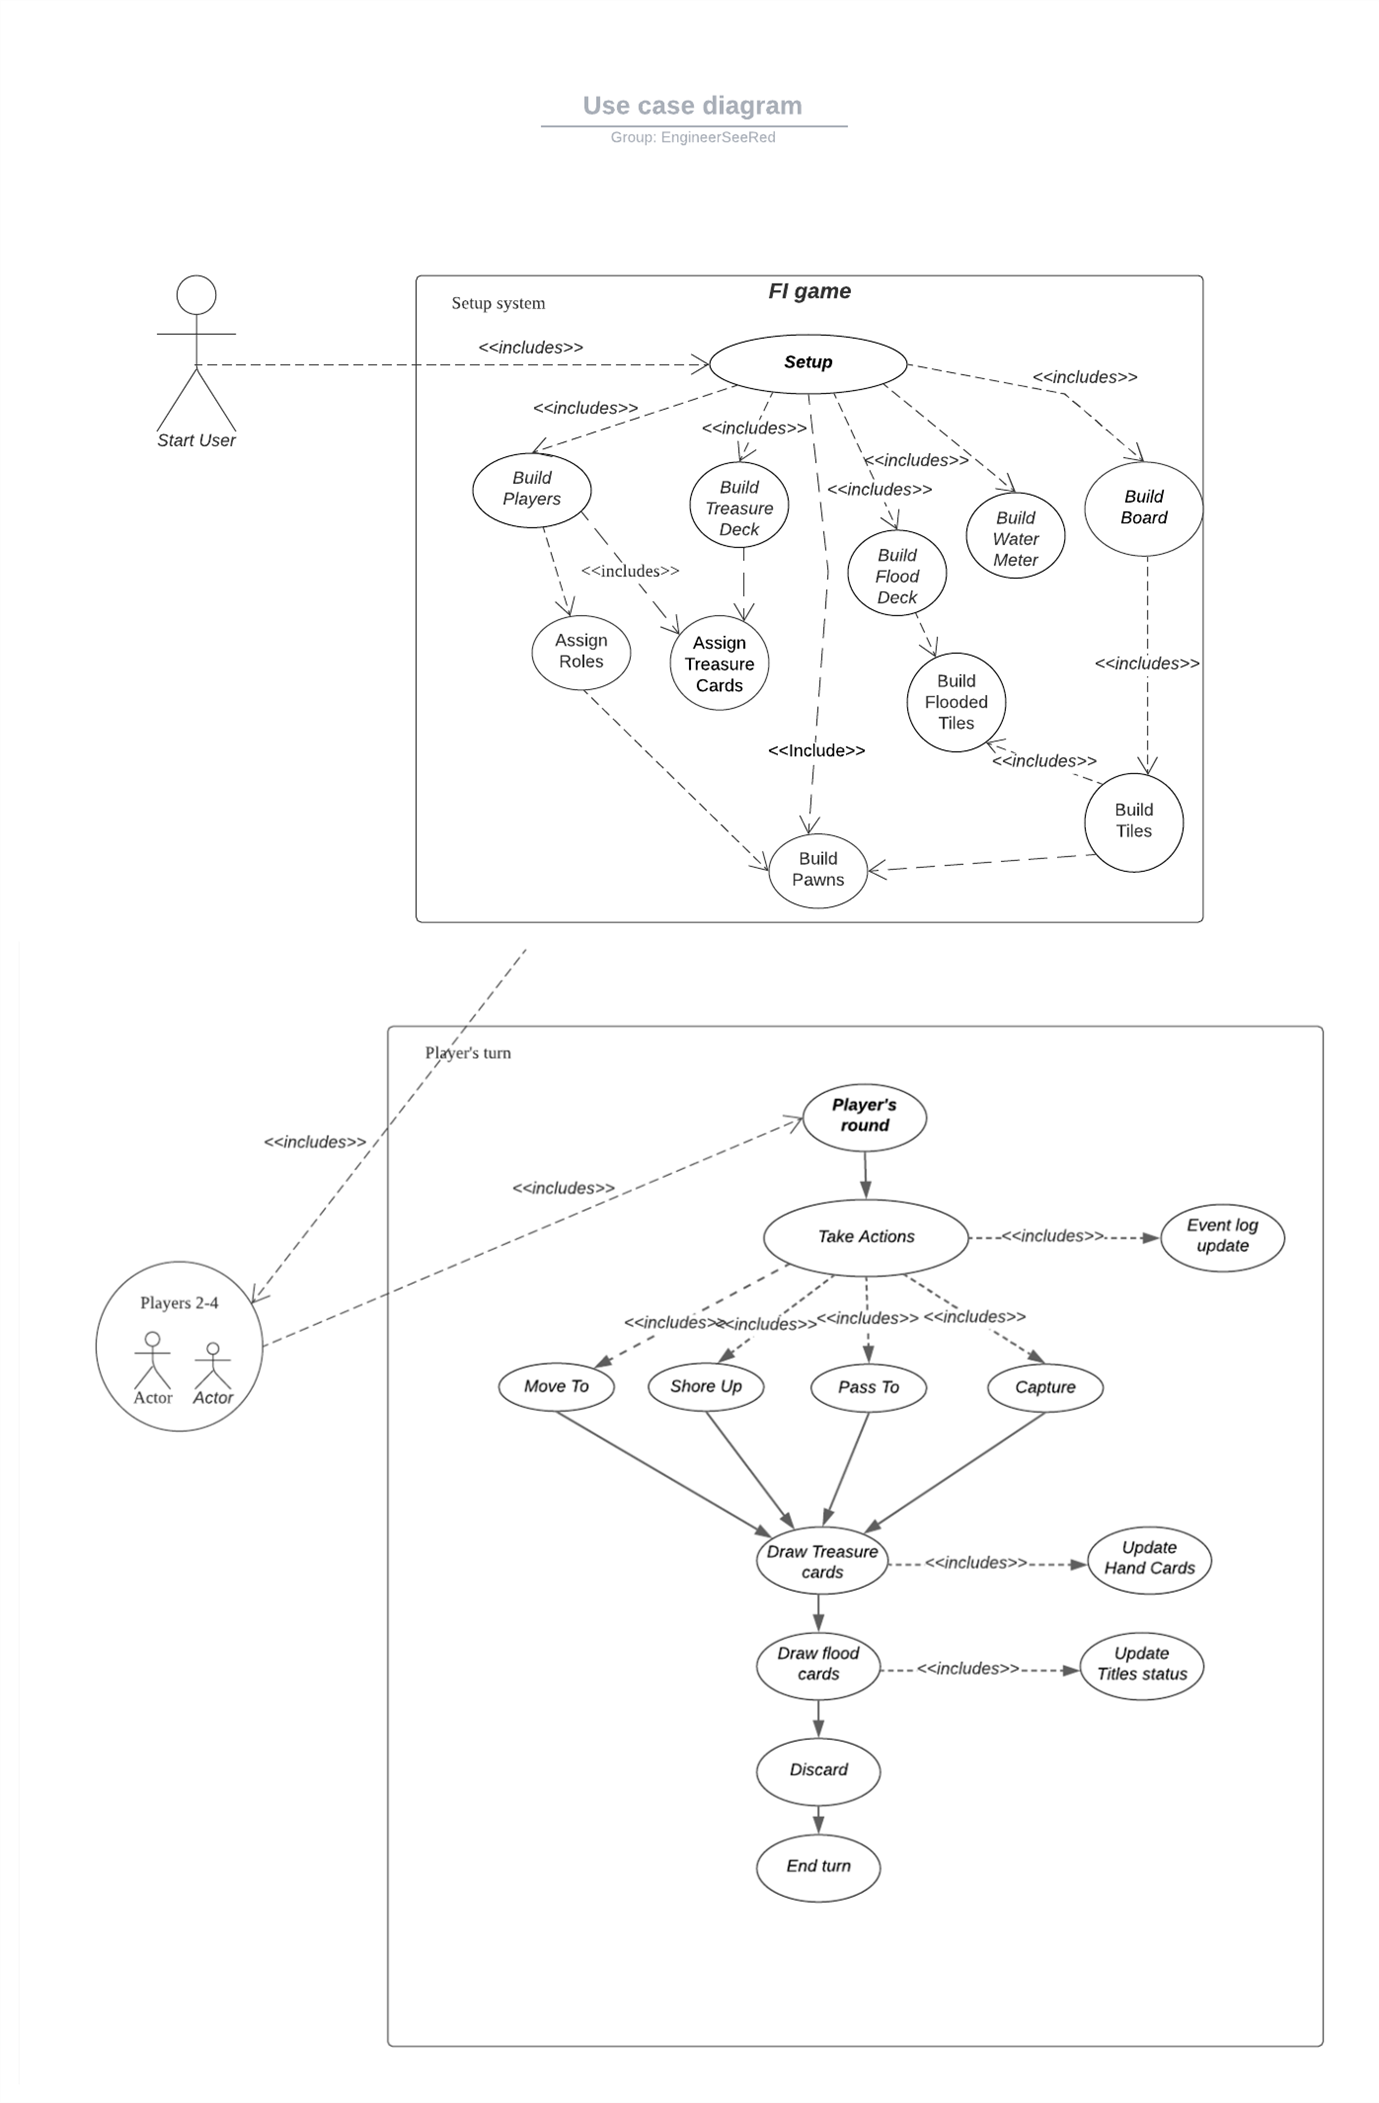
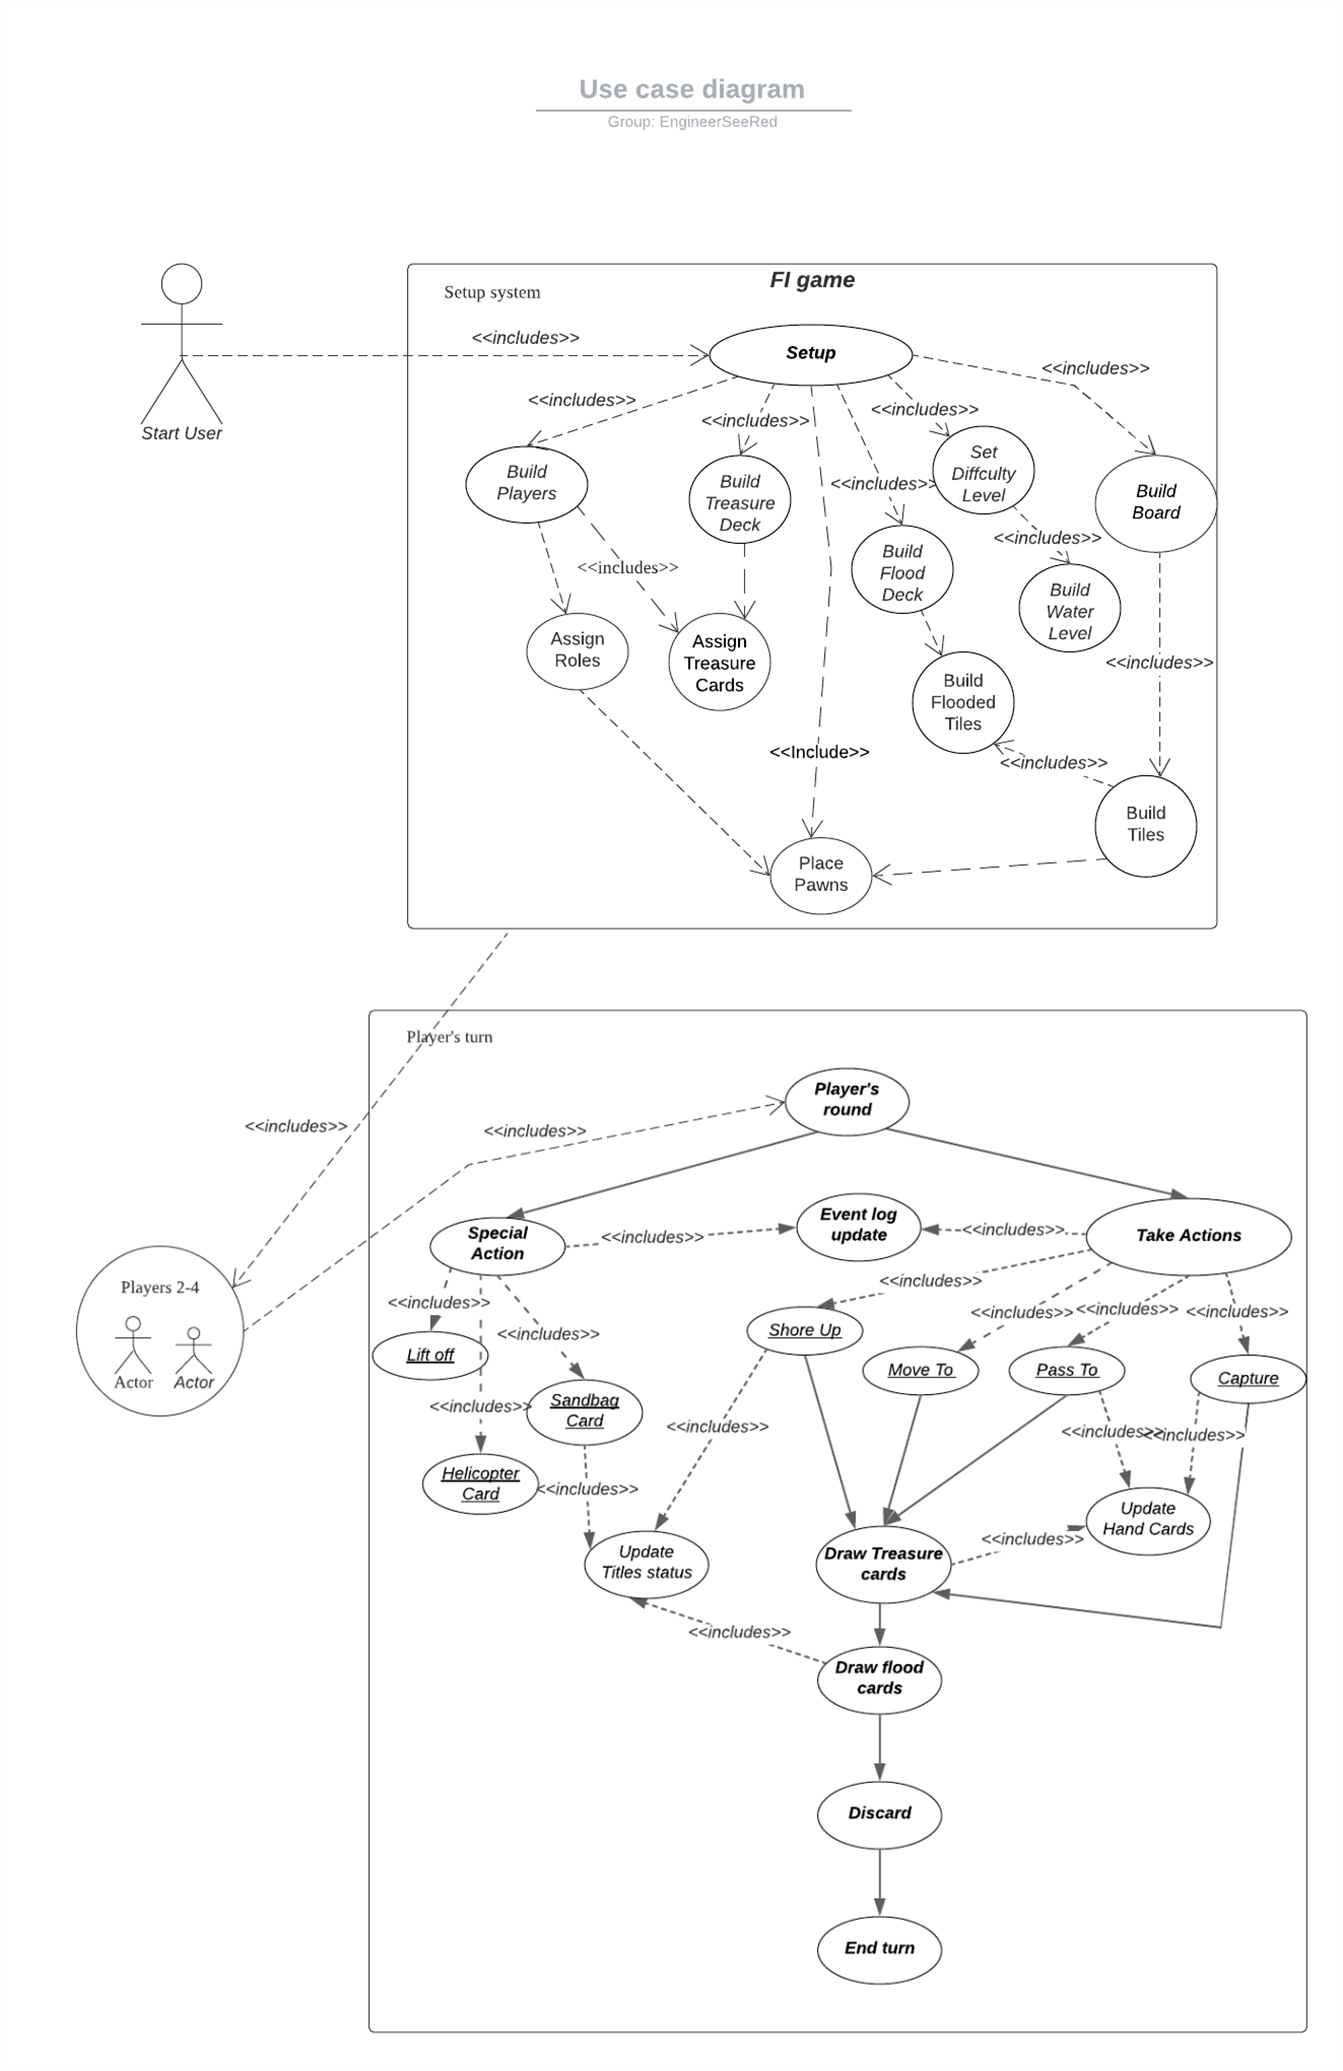
README and UML updated

diff --git a/README.md b/README.md
@@ -1,40 +1,55 @@
 # FI-game-UCD
-COMP41670-Software Engineering (ME)-2020/21 Autumn - Forbidden Island Game Project
-=======
-## Forbidden Island - EngineerSeeRed Team
 
-#### Software Engineering (COMP 41670)
+*COMP41670-Software Engineering (ME)-2020/21 Autumn - Forbidden Island Game Project*
 
 #### Authors: 
 
 Weiliang Li and Jingwen Ping
 
-#### Description:
+#### Version:
 
-This project is to design and implement the cooperative game, Forbidden Island game. 
+v1.0
 
-#### Contents of document:
+## Table of Contents
 
-1. How to play the game of Forbidden Island.
-2. Some situations in game
+- [Description](#description)
+- [Player Handbook](#player-handbook)
+    + [Overview](#overview)
+    + [Player Manual](#player-manual)
+    + [Special Situations](#special-situations)
+- [Configuration](#configuration)
+- [Architecture](#architecture)
+- [Folder Structure](#folder-structure)
+    + [Root Directory](#root-directory)
+    + [Source Code](#source-code)
+    + [Project Implementation](#project-implementation)
+    + [Test Directory](#test-directory)
 
+## Description
 
+This project is to design and implement a cooperative game, Forbidden Island game with Java.  
 
-#### How to play the game of Forbidden Island
+## Player Handbook
 
-1. Open up the project and press the run button.
+#### Overview 
+
+Players play a team of adventurers who must work together to avoid Forbidden Island from sinking, in order to buy enough time to capture its four treasures. Once players have captured them, you must make it to Fools’ Landing and escape by helicopter to win. If however, the island sinks before you can complete your tasks, the mission ends in defeat!
+
+#### Player Manual
+
+1. Run the game from the main.
 
 2. You will see the GUI of this game.
 
-3. Please select the Number of players (-----NUM-----) and Level of difficulty (---LEVEL---), then press start. You will hear the background music after.
+3. Please select the Number of players (`-----NUM-----`) and Level of difficulty (`---LEVEL---`) in config box. Press `Start`, the game will start with background music start playing.
 
    - The number of players is ranging between 2 to 4.
 
    + The level of difficulty is equal to the initial water meter.
 
-4. Game Setup
+4. Game Setup (Initialization before playing)
 
-   - Forbidden Island is created with the random locations of tiles. All the state of tiles are unflooded.
+   - Forbidden Island is created with random locations of tiles. All the states of tiles are unflooded.
 
    - 24 Treasure Cards and 24 Flood Cards are shuffled and placed on the deck.
 
@@ -46,7 +61,7 @@ This project is to design and implement the cooperative game, Forbidden Island g
 
      + Diver may swim to the nearest tile.
 
-     + Explorer may swim diagonally.
+     + Explorer may move and swim diagonally.
 
      + Pilot may fly to any tile.
 
@@ -55,33 +70,178 @@ This project is to design and implement the cooperative game, Forbidden Island g
 5. Player's turn
 
    - Each Player can take up to 3 actions (some exception of roles have been mentioned):
-     - **Move**: Click the *adjacent tile (unsunk)* and click "Move To"
-     - **Shore Up**: Click the *adjacent or on foot tile* and click "Shore Up"
-     - **Give a Treasure Card**: Click the *head portrait* on player panel and the *treasure card*, then click "Pass To". Only one card can only be passed at a time.
-       - If the receiver has 5 card already, it would turn to receiver's round to discard one card. Then try to give treasure card to receiver again.
-     - **Capture a Treasure**: With four same treasure cards and standing on the corresponding treasure tile, click "Capture".
-   - Once the actions are finished, click "next" and it would be the discard time. 2 card from the treasure deck are draw and display on the Panel (Left hand side)
-     - If Waters Rise card is drawn, water meter rise 1 and the flood discards are shuffled
-   - Click *the card that you want to discard* (including the cards on the treasure card panel), the rest of cards (no more than 5) would be in player panel. 
-   - A number of flood cards (equal to water meter) are drawn and the state of corresponding land is changed. Then click "next" for the next player's turn.
+     - **Move**: Click a  *adjacent existing* `Tile` (Up/Down/Left/Right) and click `Move To`
+     - **Shore Up**: Click the *adjacent or on foot* `Tile` and click `Shore Up`
+     - **Give a Treasure Card**: Click the `handcard` which you would like to pass to another player, click his `head portrait` on player panel, and then click `Pass To`. Only one card can only be passed at a time as one action.
+       - If the receiver has 5 cards already, it would turn to receiver's round to require the corresponding player to `Discard` one card. Then try to give treasure card to receiver again.
+     - **Capture a Treasure**: With four same treasure cards and standing on the corresponding treasure tile, click `Capture`.
+   - Once the actions are finished, click `Next` to enter in stage 2 and 3. Two cards from the treasure deck are drawn and display on the Panel (Left-hand side)
+     - If a `Waters Rise! card` is drawn, water meter rise 1, `Waters Rise! card` is discarded immediately, the flood discards are shuffled and put back to the top of flood deck
+   - A number of flood cards (equal to water meter) are drawn and the state of the corresponding land is changed. Then click `Next` for the next player's turn.
+     - If the number of player's hand reaches 5, the player is forced to discard. Click the `handcard` that you want to discard (**including the cards on the treasure card panel**), then click  `Discard`
+   - Press `Next` to continue after all operations 
 
 6. Special action
 
-   - Helicopter card can be played at any time. Click the player with *Helicopter card*, and then click "Special Actions",  then click *Helicopter card*, *the tile (unsunk) that you want to move to*, the *players that you want to move*, then click "Special Actions" again. 
-   - Sandbag card can be played at any time. Click the player with *Helicopter card*, then click "Special Actions", then click *Sandbag card*, *the tile (flooded) that you want to shore up*, then click "Special Actions" again.
+   - Helicopter card can be played at any time. Click `Helicopter card`, click a `Tile` as the destination tile, click all players' `head portrait` who need to be moved to the specified tile with *Helicopter card*, and then click `Special Actions`
+   - Sandbag card can be played at any time. Click `Sandbag card`, then click a `Tile` (flooded) that player want to shore up, then click `Special Actions`
+   - **Note:** In one's turn, if other players(not in their turn) would like to use their *Special Action Card*s, click their `head portrait` and `Special Actions` button to switch to their turn to use *Special Action Cards.* Usage is then same to above two operations
 
 7. Lift off
 
-   - If four treasure cards are collected and four players are all on *Fools’ Landing* with at least one helicopter card, click "Lift off"
+   - If four treasure cards are collected and four players are all on *Fools’ Landing* with at least one *helicopter card*, click `Lift Off`
 
+#### Special Situations
 
+1. Player on a sunk tile
 
-#### Some situations in game
+   - If a tile sink when a player is on the tile. The player must move to an unsunk tile immediately. Follow the order shown on Log and click an *adjacent unsunk*  `Tile` and click `Move To`. (some exception of roles have been mentioned)
 
-1. Player on sunk tile
-   - If the tile sink when player(s) is on the tile. The player must move to the unsunk tile immediately. Follow the order shown on Log and click the *adjacent tile (unsunk)* and click "Move To". (some exception of roles have been mentioned)
 2. Game failure
-   - Any kind of treasure tile sinks before collection.
-   -  Fools’ Landing tile sinks.
-   - If any player is on a sink Island tile and cannot move to another tile.
-   - If the water level reaches 5
+
+   There are four possible ways to lose:
+
+   1. If both Temples, Caves, Palaces, or Gardens tiles sink before any adventure collect their respective treasures.
+
+   2. The Fools’ Landing tile sinks.
+   3. If any player is on a sunk Island tile and cannot swim to another tile.
+   4. If the water level reaches the skull and crossbones (Level 10)
+
+## Configuration
+
+This project can be downloaded using `git clone` command or from [here](https://github.com/ThunStorm/FI-game-UCD/archive/master.zip "FI-game-UCD").
+
+The project is built and run with Java 8 (JDK1.8 and JRE1.8)
+
+## Architecture
+
+In general, the project is implemented following the Model-View-Controller (MVC) model. 
+
+**Model**: The model is used to store the application's dynamic data structure, independent of the user interface. In our project, action listeners, Game.java and GameData.java are the Model in the pattern.
+
+**View:** Graphical interfaces are the Views in our project, which provides players with an intuitive visualization of data of the game.
+
+**Controller:** GUI Updaters and button Listeners accepts input and converts it to commands for the Model and the View and make sure the synchronization of them.
+
+Additionally, we also looked at behavioral design patterns.  We applied **Façade Pattern** and **Command Pattern** to decoupling our code and make it more flexible. In detail, for example, the game logic part as a **Receiver** will no longer couple with **Invoker** and **Client(Players)**
+
+## Folder Structure
+
+#### Root Directory
+
+```
+.
+│ README.md									# Readme 
+├─docs          							# game rules and project document                 
+├─src										# source code
+└─UML										# modelling diagrams
+```
+
+#### Source Code
+
+```
+...
+├─src
+|  ├─com									# project implementation
+|  └─test									# automated tests
+...
+```
+
+#### Project Implementation
+
+```
+...
+com.esr
+	Main.java								# main method
+	├─gui									# implement graphical interface
+	│  GameFrame.java						# main frame
+	│  ├─console							# console panel
+	│  │	ConsolePanel.java
+	│  ├─game								# game panels
+	│  │	BoardPanel.java
+	│  │    FloodPanel.java
+	│  │    GamePanel.java
+	│  │    PlayerPanel.java
+	│  │    TreasurePanel.java
+	│  ├─listener							# add action listeners to buttons
+	│  │    Controllers.java				# for controllers "Move To", "Next", etc
+	│  │    Controllers4TestUse.java		# anonymous inner functions are not easy to be tested, so we have this for testing 
+	│  │    DataListener.java      			# add action listerners to button in game panel
+	│  ├─tools								# wheels to manipulate graphical interface
+	│  │    ImageRotation.java	
+	│  │    JPanelBG.java
+	│  │    TwoLayeredIcon.java
+	│  │    VFlowLayout.java
+	│  └─updater							# updaters to read data from Game.java/GameData.java and update gui components
+	│  		BoardUpdater.java
+	│       ControllersUpdater.java
+	│       FloodUpdater.java
+	│       LogAgent.java
+	│       PlayerUpdater.java
+	│       TreasureUpdater.java
+	│       UpdaterAgent.java
+	│       WaterMeterUpdater.java        
+    ├─resources								# resources files
+    │  ├─audio
+    │  └─image   
+    ├─service								# game logic and game components
+	│  ├─base								# Interfaces
+    │  │	IExecuter.java
+    │  │    ITimer.java						# Timer Interface
+    │  │    IUpdater.java  					# Updater Interface for all updaters in com.esr.gui.updater 
+    │  └─game								# game logic and components design
+    │      │	Game.java					# Game.java involves different stages or situations in the game in time domain
+    │      │	GameData.java				# GameData.java defines data of components and basic actions in game
+    │      ├─component						# game component design
+    │      │	├─adventurer				# adventurers implementations
+    │      │  	│      Adventurer.java		# parent class of all roles of adventurers
+    │      │  	│      Diver.java
+    │      │  	│      Engineer.java
+    │      │  	│      Explorer.java
+    │      │  	│      Messenger.java
+    │      │  	│      Navigator.java
+    │      │  	│	      Pilot.java
+    │      │  	└─cards
+    │      │    	TreasureFigurines.java	# enumeration of Treasure Figurines
+    │      └─data
+    │      		Block.java					# data of a tile and basic methods to manipulate data
+    │           BoardData.java				# an array of blocks to present data of board and basic methods
+    │           Deck.java					# parent class of flood card deck and treasure card deck
+    │           FloodDeck.java				# flood card deck
+    │           TileStatus.java				# enumeration of status of a tile
+    │           TreasureDeck.java			# treasure card deck
+    │           WaterMeter.java   			# water meter 
+    └─utils									# utilities
+    	Audio.java							# enumeration of audios and methods to play and loop-play
+        CommonUtils.java					# utility class to implement timer and method to read resources
+        Constant.java       				# parameter constants
+        Map.java							# used to transform coordinates
+```
+
+#### Test Directory
+
+```
+...
+test.com.esr
+	├─gui.listener							# test listeners
+	│  	Controllers4TestUseTest.java  		# test logic in action listeners
+	└─service.game							# test game
+		│  GameDataTest.java				# test GameData.java
+		│  GameTest.java					# test Game.java
+		└─component							# test different game components
+			└─adventurer					
+			│	AdventurerTest.java
+			│   DiverTest.java
+			│   EngineerTest.java
+			│   ExplorerTest.java
+			│   MessengerTest.java
+			│   NavigatorTest.java
+			│   PilotTest.java        
+			└─data
+     			BlockTest.java
+     			BoardDataTest.java
+     			FloodDeckTest.java
+     			TreasureDeckTest.java
+				WaterMeterTest.java
+```
+
